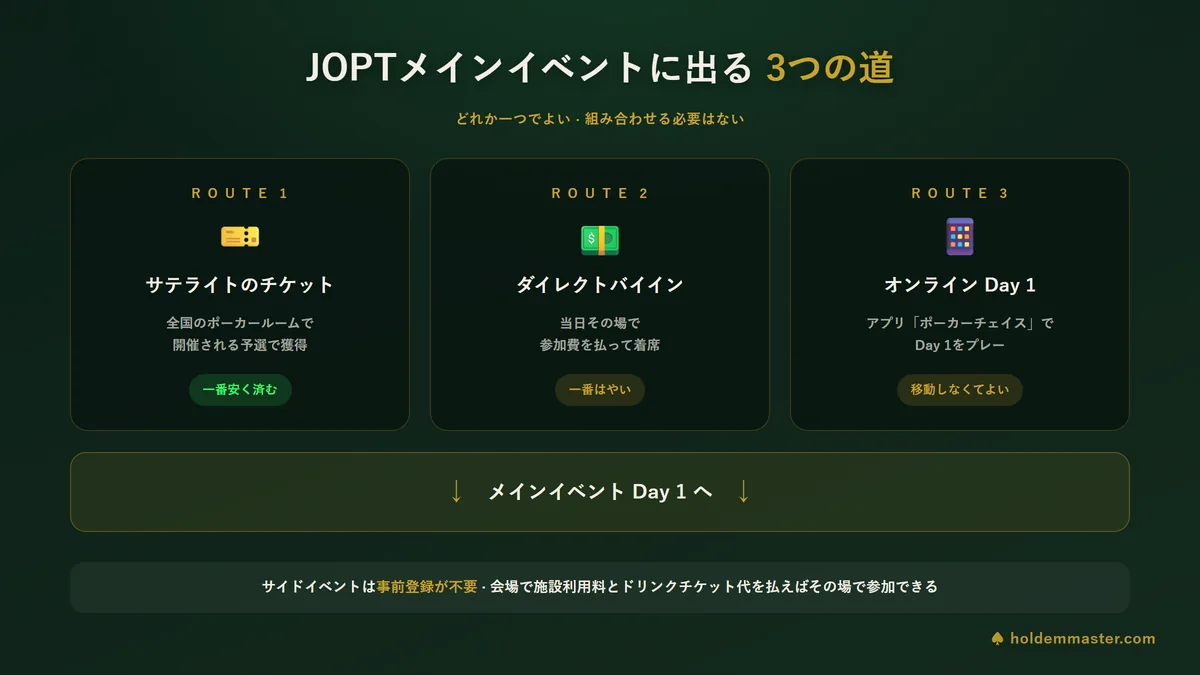
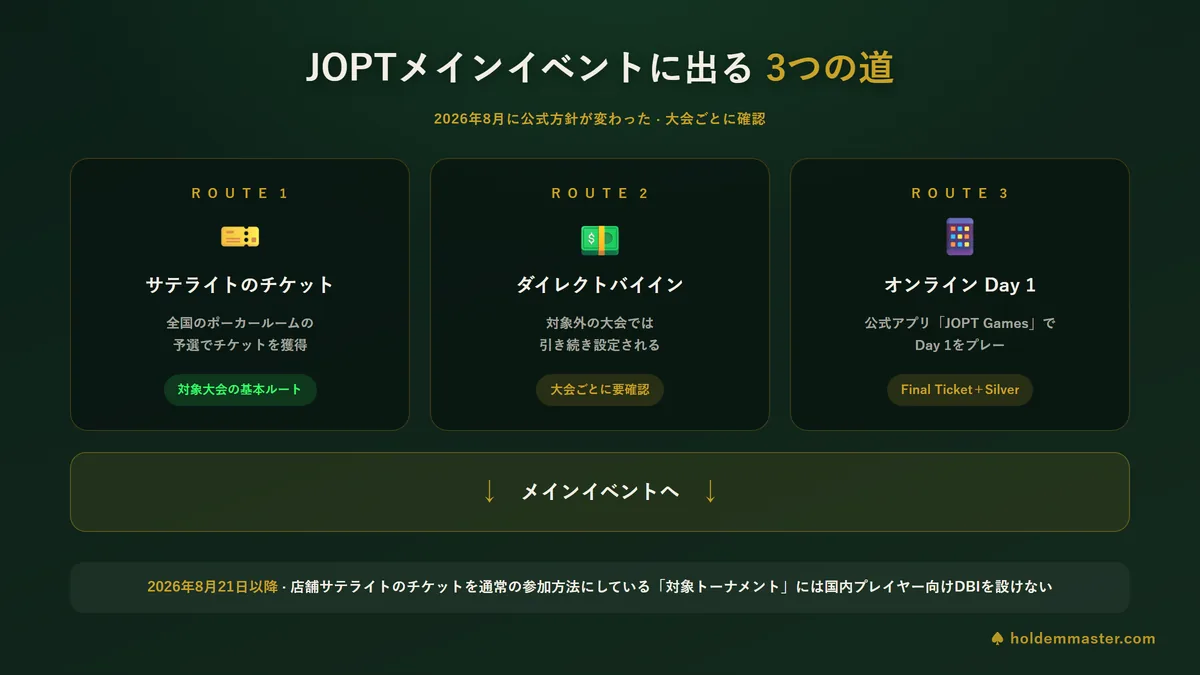
fix(ja): GPT 교차검수 반영 — JOPT 참가제도 변경(2026-08-21) 미반영 등 사실오류 12건 정정
사장님이 GPT로 한 번 더 검수. 지적을 그대로 받지 않고 전건 1차 출처 대조 후 반영.

■ 왜 우리 렌즈 4종이 못 잡았나
렌즈들에게 «내 실측값 요약»을 기준으로 줬기 때문에, 내가 못 본 페이지는 렌즈도 못 본다.
실제로 나는 /events/·/osaka/·/qa/·/satellite·Players Guide만 보고 **공지 페이지를 안 봤다.**

■ 확인된 사실오류 (전부 공식 원문 대조)
1. 🔴 JOPT 참가제도 변경 미반영 — /jopt-satellite-ticket-policy/ (최종갱신 2026-08-20)
   「2026年8月21日以降、対象トーナメントには国内プレイヤー向けDBIを設けません」
   「DBI自体を一律に廃止するものではありません」
   구 티켓(Tokyo#03·Sapporo#02·Osaka#02)은 유효기간까지 종전 조건 유지, 신제도 권리엔 미적용.
   → 이 공지가 «삿포로 가이드에 or ¥○○가 없는» 수수께끼를 푼다(기재 누락이 아니라 정책).
2. 🔴 온라인 Day 1 플랫폼 = PokerChase → **JOPT Games** (공식 공지 2026-08-29)
   참가 요건 「ファイナルチケット1枚 + Silver以上のサブスク」, 상품은 #47 NLH Bullet.
   상시 Q&A가 낡았다 — 1차 출처 충돌 시 «더 최신·더 구체적인 레그별 공지»가 정본.
   🪶 어젯밤 「포커체이스=공식 플랫폼」이라 한 정정도 함께 재정정(하루 만에 두 번 뒤집힘).
3. 🔴 계층 혼동 — 「75トーナメント」는 슬롯 수. 직접 셈: #01~#53(53) + s01~s07(7) + ★(5) + 추가 플라이트(10) = 75
4. 🔴 「年8〜9レグ＋GF」 = GF 이중계산 → 「GFを含めて年8〜9大会」(2026=9·2025=8·2024=8)
5. 🔴 2026 시즌 시작 = 2025년 12월 27일 (1월 아님)
6. 🔴 福岡#01 종료 = 8월 2일 (7월 말 아님)
7. 🔴 AJPC 본선 = 「予選通過者・前回大会入賞者など」 — 온라인 예선이 유일 경로가 아니다
8. 🔴 NIPPON SERIES 2026 = 6대회 아니라 **7대회** — GO KAGOSHIMA(03.26–29) 누락.
   홈 RESULTS는 최신 6개만 보여준다. 정본은 results.html 아카이브. 부분 목록을 전체로 읽었다.
   덤: 이 시리즈에도 GRAND FINAL 존재(OSAKA 2025-26)
9. NIPPON SERIES 최소 실비 = ¥5,000 → 합계 ¥6,000(+¥1,000 필수)
10. 세금 절 단정 완화 — 「포커가 어느 소득구분인지 국세청은 명시하지 않음」을 절 머리로,
    「급여소득자 다수는 연말정산으로 확정申告 불요」 추가. 표는 유지(ja 최대 차별점이라 폐기 안 함)
11. 신분증 = 「공식 페이지 간 안내가 다르다」로 재서술
12. 용어 설명 신설(レグ·フリーズアウト) · 도입부 범위 · 번역투 6곳 · Day1→Day 1

■ 이미지 3장 전부 재제작
[…]

diff --git a/scripts/gen-japan-poker-tournaments-entry-routes.html b/scripts/gen-japan-poker-tournaments-entry-routes.html
@@ -49,7 +49,7 @@ html,body { background:#0B1F17; }
 <div class="stage">
   <div class="hdr">
     <h1>JOPTメインイベントに出る <span class="gold">3つの道</span></h1>
-    <div class="sub">どれか一つでよい &#183; 組み合わせる必要はない</div>
+    <div class="sub">2026年8月に公式方針が変わった &#183; 大会ごとに確認</div>
   </div>
 
   <div class="routes">
@@ -57,33 +57,33 @@ html,body { background:#0B1F17; }
       <div class="no">R O U T E &#160;1</div>
       <div class="ic">&#127915;</div>
       <div class="nm">サテライトのチケット</div>
-      <div class="ds">全国のポーカールームで<br>開催される予選で獲得</div>
-      <div class="tag g">一番安く済む</div>
+      <div class="ds">全国のポーカールームの<br>予選でチケットを獲得</div>
+      <div class="tag g">対象大会の基本ルート</div>
     </div>
     <div class="rt">
       <div class="no">R O U T E &#160;2</div>
       <div class="ic">&#128181;</div>
       <div class="nm">ダイレクトバイイン</div>
-      <div class="ds">当日その場で<br>参加費を払って着席</div>
-      <div class="tag y">一番はやい</div>
+      <div class="ds">対象外の大会では<br>引き続き設定される</div>
+      <div class="tag y">大会ごとに要確認</div>
     </div>
     <div class="rt">
       <div class="no">R O U T E &#160;3</div>
       <div class="ic">&#128241;</div>
       <div class="nm">オンライン Day 1</div>
-      <div class="ds">アプリ「ポーカーチェイス」で<br>Day 1をプレー</div>
-      <div class="tag y">移動しなくてよい</div>
+      <div class="ds">公式アプリ「JOPT Games」で<br>Day 1をプレー</div>
+      <div class="tag y">Final Ticket＋Silver</div>
     </div>
   </div>
 
   <div class="dest">
     <div class="ar">&#8595;</div>
-    <div class="tx">メインイベント Day 1 へ</div>
+    <div class="tx">メインイベントへ</div>
     <div class="ar">&#8595;</div>
   </div>
 
   <div class="note">
-    <div class="v">サイドイベントは<b>事前登録が不要</b> &#183; 会場で施設利用料とドリンクチケット代を払えばその場で参加できる</div>
+    <div class="v"><b>2026年8月21日以降</b> &#183; 店舗サテライトのチケットを通常の参加方法にしている「対象トーナメント」には国内プレイヤー向けDBIを設けない</div>
   </div>
 
   <div class="wordmark">&#9824; holdemmaster.com</div>

diff --git a/scripts/gen-japan-poker-tournaments-guide-hero.html b/scripts/gen-japan-poker-tournaments-guide-hero.html
@@ -46,16 +46,16 @@ html,body { background:#0B1F17; }
 <div class="stage">
   <div class="hdr">
     <h1>国内ポーカー大会は <span class="gold">3つのツアー</span>で見る</h1>
-    <div class="sub">入口の作りがそれぞれ違う</div>
+    <div class="sub">参加までの仕組みがそれぞれ違う</div>
   </div>
 
   <div class="cards">
     <div class="c">
       <div class="nm">JOPT</div>
       <div class="rows">
-        <div class="r"><span class="k">開催</span><span class="v">年8〜9レグ</span></div>
+        <div class="r"><span class="k">開催</span><span class="v">年8〜9大会</span></div>
         <div class="r"><span class="k">都市</span><span class="v">東京・大阪<br>札幌・福岡</span></div>
-        <div class="r"><span class="k">入口</span><span class="v">チケット＋現金</span></div>
+        <div class="r"><span class="k">入口</span><span class="v">チケット中心</span></div>
       </div>
       <div class="big">
         <div class="n">&#165;3,000〜<br>&#165;200,000</div>
@@ -79,7 +79,7 @@ html,body { background:#0B1F17; }
     <div class="c">
       <div class="nm">NIPPON SERIES</div>
       <div class="rows">
-        <div class="r"><span class="k">開催</span><span class="v">年6〜7大会</span></div>
+        <div class="r"><span class="k">開催</span><span class="v">2026年は8大会目</span></div>
         <div class="r"><span class="k">都市</span><span class="v">全国の<br>地方都市</span></div>
         <div class="r"><span class="k">入口</span><span class="v">直接エントリー</span></div>
       </div>
@@ -91,7 +91,7 @@ html,body { background:#0B1F17; }
   </div>
 
   <div class="foot">
-    <div class="t">住んでいる場所と、<b>現金を出すかチケットを取りに行くか</b>で選ぶ大会が決まる</div>
+    <div class="t">住んでいる場所と、<b>チケットを取りに行くか現金で入るか</b>で選ぶ大会が決まる</div>
   </div>
 
   <div class="wordmark">&#9824; holdemmaster.com</div>

diff --git a/scripts/gen-japan-poker-tournaments-ticket-value.html b/scripts/gen-japan-poker-tournaments-ticket-value.html
@@ -88,7 +88,7 @@ html,body { background:#0B1F17; }
   </div>
 
   <div class="warn">
-    <div class="v"><b>レグごとに必要枚数が違う</b> &#183; 2026 札幌 #02 は「1 Ticket + &#165;7,000」で現金のみの金額は記載なし</div>
+    <div class="v"><b>この扱いは発行済みの旧チケット限定</b> &#183; 2026年8月の見直しで、対象トーナメントには国内プレイヤー向けDBIを設けない方針</div>
   </div>
 
   <div class="wordmark">&#9824; holdemmaster.com</div>

diff --git a/docs/market-profile/ja.md b/docs/market-profile/ja.md
@@ -230,7 +230,12 @@
 > `2026 Osaka #02` → `japanopenpoker.com/osaka/`(도시 랜딩 = 공통 틀만) ·
 > **`2026 Tokyo #03`·`2027 Tokyo #01`·`2027 Osaka #01`은 링크 자체가 없다.**
 
-2026-07-30 시점: 福岡#01 **공개** / 札幌#02 **공개(전 75이벤트)** / 東京#03 **404** / 大阪#02 **404**
+2026-07-30 시점: 福岡#01 **공개** / 札幌#02 **공개** / 東京#03 **404** / 大阪#02 **404**
+
+🔴 **«전 75이벤트»는 틀린 표현이다 (2026-09-02 정정).** 공식은 **「ALL 75」·「全75枠」**이고,
+직접 세면 **고유 넘버 이벤트는 #01~#53 = 53종**(빠진 번호 0)이다.
+나머지 22칸 = **새틀 s01~s07(7) + ★ Sit & Go(5) + 같은 이벤트의 추가 플라이트(10)**.
+**53 + 7 + 5 + 10 = 75** ✅ → **«75 토너먼트»라고 쓰면 레그 안의 스케줄 슬롯을 이벤트 수로 읽은 계층 혼동이다.**
 
 **🆕 2026-09-01 라이브 재실측 — 위 상태는 그대로다. 단 함정 둘을 새로 잡았다.**
 
@@ -345,6 +350,26 @@ GET japanopenpoker.com/wp-json/tribe/events/v1/events?start_date=&end_date=&per_
 → ★ **세금을 一時所得으로 단정하지 말 것.** 공식이 "상금이 아니다·업무위탁"이라 하는데
   일시소득 틀을 씌우면 위험하다. B-3의 「단정 금지」 규정이 여기에도 적용된다.
 
+**④-B 🔴🔴 2026-08-21 — 참가 방법 제도가 바뀌었다 (2026-09-02 발견 · 정본 `/jopt-satellite-ticket-policy/`)**
+
+공식 공지 「店舗サテライト運用およびチケット制度の見直し方針について」(최종 갱신 **2026-08-20**) 축어:
+
+| 무엇 | 원문 요지 |
+|---|---|
+| **DBI** | 「メインイベントを含め、店舗サテライトで付与されるチケットまたは権利による参加を通常の参加方法として設定している**対象トーナメント**については、**2026年8月21日以降、国内プレイヤー向けのダイレクトバイイン（DBI）を設けません**」 |
+| 범위 | 🔴 **「DBI自体を一律に廃止するものではありません」** — 대상 외 토너먼트는 계속 DBI 설정 |
+| **구 티켓** | 「すでに発行されている旧チケット(**2026 Tokyo #03・2026 Sapporo #02・2026 Osaka #02**)については…**発行時の利用条件を有効期限まで維持**」 · **사이드 ¥10,000분 기능도 유효기간까지 유지** |
+| 🔴 한정 | 「この経過措置は**発行済みの旧チケットに限る**ものであり、**新制度で付与される権利には適用されません**」 |
+| 새틀 시즌 | 현 시즌은 현행 유지 · **종료 후 신제도로 이행** · 새 방식·권리 사양·전환 시기는 **추후 공지** |
+
+🔴 **이 공지가 §②의 수수께끼를 푼다** — 札幌 #02 Players Guide에 「or ¥○○」가 없는 것은
+**기재 누락이 아니라 정책**일 가능성이 크다(福岡 #01은 8/21 이전이라 「or ¥80,000」이 있다).
+🔴 **글에 「티켓을 지금부터 모아 두면 된다」고 쓰지 마라** — 신제도 이행이 예고돼 있다.
+🔴 **「1장 = 사이드 ¥10,000」은 «발행된 구 티켓 3레그» 한정**으로 써라.
+
+🪶 **내가 이걸 놓친 이유**: `/events/`·`/osaka/`·`/qa/`·`/satellite`·Players Guide만 봤고
+**뉴스·공지 페이지를 안 봤다.** → **JOPT를 조사할 때 공지 페이지를 목록에 넣어라.**
+
 **⑤ 메인이벤트 Day 1이 분산 개최된다** (2025 大阪 #02 실적)
 - 회장 4 (Day 1A~1D Turbo) + **제휴 포커룸 4** + **온라인 3** = **11플라이트**
 - 제휴룸: KKLIVE POKER SHIBUYA / Akasaka de Poker / ★**GoodGame Poker Live Nagoya** / Eat Sleep Poker(한국 ₩)
@@ -382,6 +407,12 @@ STAGE 01 트라이얼(무료) → 02 새틀 → 03 파이널 → 04 라이브.
 **새틀 이후 Silver 이상 구독(월 980엔~) 필요.** 티켓 1,000/5,000/30,000엔.
 「**현실의 금전을 거는 서비스가 아닙니다**」 · **18세 미만 이용 불가**.
 → 라이브 새틀라이트의 Main Event Ticket과 **다른 물건**. 같은 「チケット」로 뭉뚱그리지 말 것.
+
+🔴🔴 **2026-09-02 갱신 — «별개 체계»이면서 동시에 «메인이벤트 온라인 Day 1의 개최처»다.**
+공식 공지(2026-08-29)에 따르면 **2026 Sapporo #02 Online Day 1은 JOPT Games에서** 열린다
+(09.05·09.06 · 참가 요건 **ファイナルチケット1枚 + Silver以上** · 상위 50%에 **#47 NLH Bullet**).
+🔴 **상시 Q&A의 「ポーカーチェイス」 기술은 낡았다** — 레그별 공지가 정본이다.
+🔴 그리고 **Online Day 1을 이겨도 «회장 Day 1 좌석»이 아니라 «Bullet 권리»**다. 층을 구분할 것.
 
 **⑩ 회장** — 堂島リバーフォーラム
 회장 공식(dojimariver.com/access/): **〒553-0003 大阪市福島区福島1-1-17** / Tel 06-6341-0115

diff --git a/docs/keyword-bank/ja-tournament.md b/docs/keyword-bank/ja-tournament.md
@@ -68,14 +68,21 @@
 ~~`ポーカー チェイス 大会` 50 (게임 앱)~~ / `ふわっち` 40 / `ヨコサワ` 10 (유튜버)
 → 볼륨은 크지만 **연예인 검색**이다. SEO로 끌어오지 않는다. 단 §5의 "독자 인지 수준" 근거로는 쓴다.
 
-> 🔴 **2026-09-01 정정 — `ポーカー チェイス 大会` 50을 노이즈에서 뺀다.**
-> JOPT 공식 Q&A가 메인이벤트 참가 3경로의 **③으로 「オンラインDay1」**을 들면서
-> **「『ポーカーチェイス』上で「Day1」をプレイし、通過者がDay2以降へ進出」**이라고 축어로 적는다.
-> 즉 **포커체이스는 JOPT 메인이벤트 온라인 Day 1의 공식 플랫폼**이고, 그 쿼리의 일부는
-> «게임 앱»이 아니라 **«JOPT 온라인 예선»을 찾는 수요**다. 같은 서술이
-> `docs/local-voice/ja-jp.md` §1에도 「게임 앱」으로 적혀 있어 함께 정정했다.
-> 🪶 교훈 = **«앱 이름처럼 생겼다»는 노이즈 판정의 근거가 못 된다.** 공식 문서에서 그 이름이
-> 어떤 역할로 나오는지부터 확인할 것.
+> 🔴🔴 **2026-09-02 재정정 — 하루 만에 두 번 뒤집혔다. 최종 판정은 «조준하지 마라»다.**
+>
+> **09-01 판정(폐기)**: 공식 Q&A가 「『ポーカーチェイス』上で「Day1」をプレイし」라고 축어로 적어서
+> 「포커체이스 = JOPT 온라인 Day 1 공식 플랫폼」이라 정정했다.
+>
+> 🔴 **09-02 실측이 그 근거를 무너뜨렸다 — Q&A가 낡았다.**
+> `japanopenpoker.com/games/2026-jopt-apporo-02/`(공식 공지 **2026-08-29**)는
+> **2026 Sapporo #02 Online Day 1을 「JOPT Games」에서** 개최한다고 명시한다
+> (참가 요건 = **ファイナルチケット1枚 + Silver以上のサブスク** · 09.05·09.06 · 상위 50%에 #47 NLH Bullet).
+> Tokyo #03 공지도 제목이 「『JOPT Games』にて…Online Day 1が開催決定」이다(본문은 **保護中**).
+>
+> ✅ **최종**: 온라인 Day 1의 플랫폼은 **JOPT Games**다. `ポーカー チェイス 大会` 50은
+> **JOPT 축으로 조준하지 마라**(과거 시즌엔 그랬다는 사실만 유효).
+> 🔴 **1차 출처끼리 어긋나면 «더 최신 + 더 구체적인 쪽»이 이긴다** — 상시 Q&A보다 **레그별 공지**가 정본이다.
+> 🪶 교훈 둘: ①«앱 이름처럼 생겼다»는 노이즈 판정 근거가 못 된다 ②**Q&A 같은 상시 페이지는 낡는다.**
 
 ---
 

diff --git a/docs/tournament-spine.md b/docs/tournament-spine.md
@@ -404,6 +404,14 @@ Triton 제주 II 이벤트 수를 WebFetch가 한 번은 "16개", 다른 번은 
 🔷 **#15가 「PARADISE CITY × NIPPON SERIES」**로 상품에 **HYATT REGENCY 仁川 파라다이스시티 2박**이 걸려 있다
 (스폰서에 `paradisecasino.co.kr` 실재) = **한국 대회 글과의 자연스러운 연결 고리**.
 
+🔴 **2026-09-02 정정 — 2026 시즌 실적은 6대회가 아니라 7대회다.**
+홈페이지 RESULTS 섹션은 **최신 6개만** 보여준다. 정본은 **`nippon-series.jp/results.html`(대회 아카이브)**이고,
+거기엔 **`GO KAGOSHIMA`(2026.03.26–03.29 · ライカ南国ホール · 우승 KO TANAKA)**가 더 있다.
+→ 2026 시즌 = KAGOSHIMA·TOKYO·TOYAMA·NAGANO·NARA·FUKUOKA·HACHIOJI **7대회 종료**,
+GO NAGASAKI(09.04–06)가 **8번째**. 🔴 **부분 목록을 전체로 읽지 마라.**
+🔷 그리고 **이 시리즈에도 GRAND FINAL이 있다** — 「NIPPON SERIES GRAND FINAL OSAKA 2025-26」
+2025.12.26–2026.01.04 · 難波御堂筋ホール · 우승 JIN TANIMURA. (연말연시 개최 = JOPT와 같은 리듬)
+
 🔴 **이 투어는 «캘린더»로 다루지 마라** — 미래 일정이 **1건뿐**이고 그다음 개최지는 미공개다.
 그리고 **1차 출처가 자기모순**이다: 히어로가 `GO HACHIOJI`를 「UPCOMING」이라 띄우는데 RESULTS엔
 「FINISHED」로 있다(08-30 종료 = FINISHED가 맞다). **심판은 히어로가 아니라 SERIES/RESULTS 구획.**

diff --git a/docs/local-voice/ja-jp.md b/docs/local-voice/ja-jp.md
@@ -32,7 +32,7 @@
 | `田中 圭 ポーカー 世界 大会` | 590 | |
 | `和田まんじゅうのポーカー韓国大会の結果は?` | 질문형 | 개그맨 — **한국 대회 참가** |
 | `ヨコサワ ポーカー 大会` | 10 | 유튜버(世界のヨコサワ) |
-| `ポーカー チェイス 大会` | 50 | 🔴 **게임 앱이 아니다**(2026-09-01 정정) — **JOPT 메인이벤트 온라인 Day 1의 공식 플랫폼**이다. 근거·축어 = `keyword-bank/ja-tournament.md` §1 |
+| `ポーカー チェイス 大会` | 50 | 🔴 **하루 만에 두 번 뒤집혔다**(09-01 정정 → **09-02 재정정**). 현재 JOPT 온라인 Day 1의 플랫폼은 **JOPT Games**이고 Q&A의 「ポーカーチェイス」 기술은 낡았다. **JOPT 축으로 조준하지 마라.** 경위 = `keyword-bank/ja-tournament.md` §1 |
 
 우리 앵커 `ポーカー 大会`(2,900)의 **1/4이 배우 한 명 검색**이다.
 
